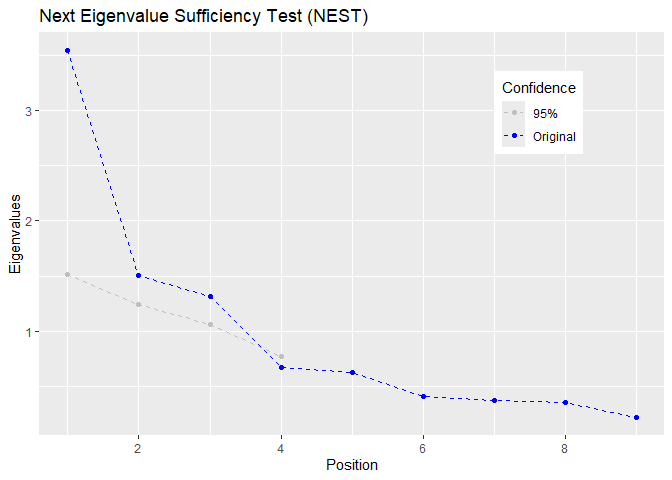
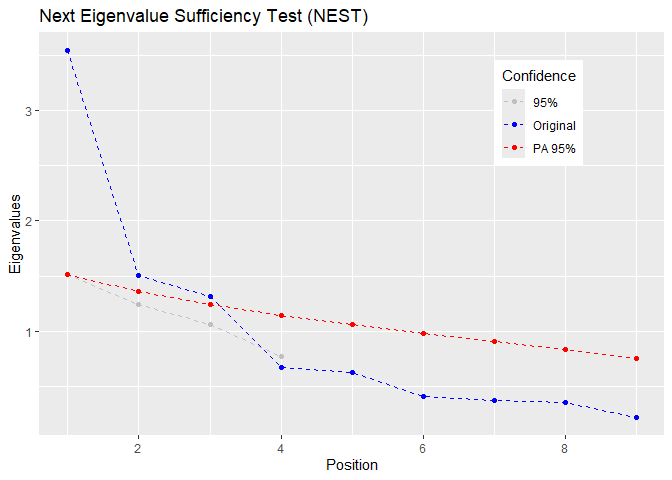
citation update.

Changed region(s): [[0.75, 0.125, 0.875, 0.3438]]

diff --git a/README.md b/README.md
@@ -6,7 +6,7 @@ The library `Rnest` offers the Next Eigenvalue Sufficiency Tests (NEST)
 factor analysis. It provides a main function `nest()` to carry the
 analysis and a `plot()` function. It has been showed to amongst the best
 stopping rule to determine the nuber of factor in factor analysis
-(Achim, 2021; Brandenburg & Papenberg, 2024; Caron, accepté).
+(Achim, 2021; Brandenburg & Papenberg, 2024; Caron, 2025).
 
 There is many examples of correlation matrices available with the
 packages and other stopping rules as well, such as `pa()` for parallel
@@ -87,6 +87,7 @@ summary(res)
     ## nest 1.0 ended normally 
     ##  
     ##    Estimator                       ML 
+    ##    Missing data treatment          FIML 
     ##    Number of model parameters      66 
     ##    Resampling                      1000 
     ##    Sample size                     2500 
@@ -97,9 +98,9 @@ summary(res)
     ##   Factor     Eigenvalue     Prob 
     ##     F1         3.228       < .001 
     ##     F2         3.167       < .001 
-    ##     F3         1.007         .009 
+    ##     F3         1.007         .010 
     ##     F4         0.972         .009 
-    ##     F5         0.860         .735 
+    ##     F5         0.860         .727 
     ## 
     ##  
     ## At 95% confidence, Next Eigenvalue Sufficiency Test (NEST) suggests 4 factors. 
@@ -171,7 +172,7 @@ ex_3factors_doub_unique %>%
   cor_nest() %>%  
   remove_unique() %>%       
   nest() %>% 
-  plot()
+  plot(pa = TRUE)
 ```
 
 <img src="README_files/figure-gfm/unnamed-chunk-1-1.png" style="display: block; margin: auto;" />
@@ -184,7 +185,7 @@ Sufficiency Test*. <https://github.com/quantmeth/Rnest>
 # References
 
 <div id="refs" class="references csl-bib-body hanging-indent"
-line-spacing="2">
+entry-spacing="0" line-spacing="2">
 
 <div id="ref-Achim17" class="csl-entry">
 
@@ -223,7 +224,7 @@ test. *Psychological Methods*, *29*(1), 21–47.
 
 <div id="ref-Caron25" class="csl-entry">
 
-Caron, P.-O. (accepté). A comparison of the next eigenvalue sufficiency
+Caron, P.-O. (2025). A comparison of the next eigenvalue sufficiency
 test to other stopping rules for the number of factors in factor
 analysis. *Educational and Psychological Measurement*.
 <https://doi.org/10.1177/00131644241308528>
